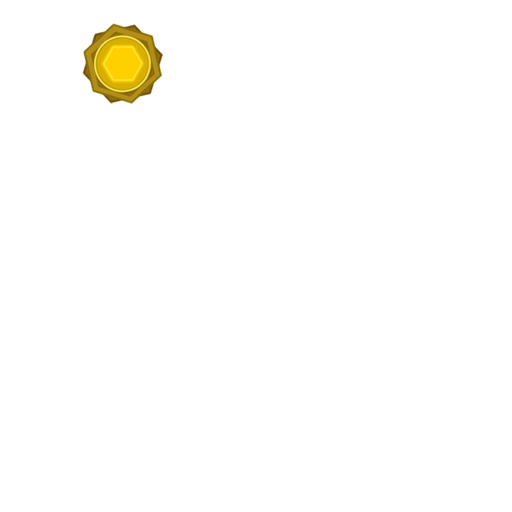
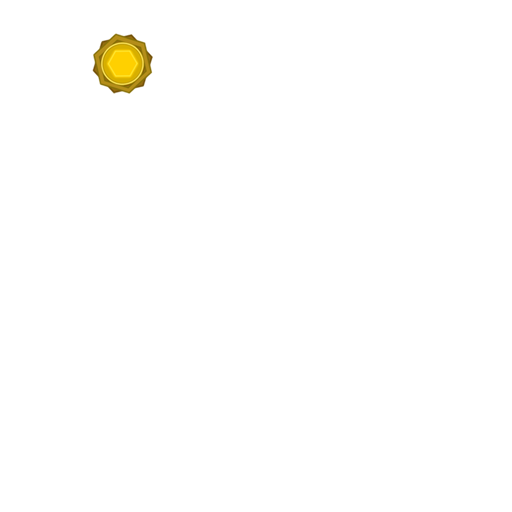
冰屑飞溅卡图更换 角色选择按钮贴图更换

Changed region(s): [[0.1562, 0.0312, 0.3125, 0.2188]]

diff --git a/src/main/java/demoMod/icebreaker/cards/lightlemon/IceDebrisSplashed.java b/src/main/java/demoMod/icebreaker/cards/lightlemon/IceDebrisSplashed.java
@@ -24,7 +24,7 @@ public class IceDebrisSplashed extends AbstractLightLemonCard {
     private static final CardStrings cardStrings = CardCrawlGame.languagePack.getCardStrings(ID);
     public static final String NAME = cardStrings.NAME;
     public static final String DESCRIPTION = cardStrings.DESCRIPTION;
-    public static final String IMG_PATH = "cards/DeepColdSwamp.png";
+    public static final String IMG_PATH = "cards/IceDebrisSplashed.png";
 
     private static final CardType TYPE = CardType.ATTACK;
     private static final CardRarity RARITY = CardRarity.UNCOMMON;
